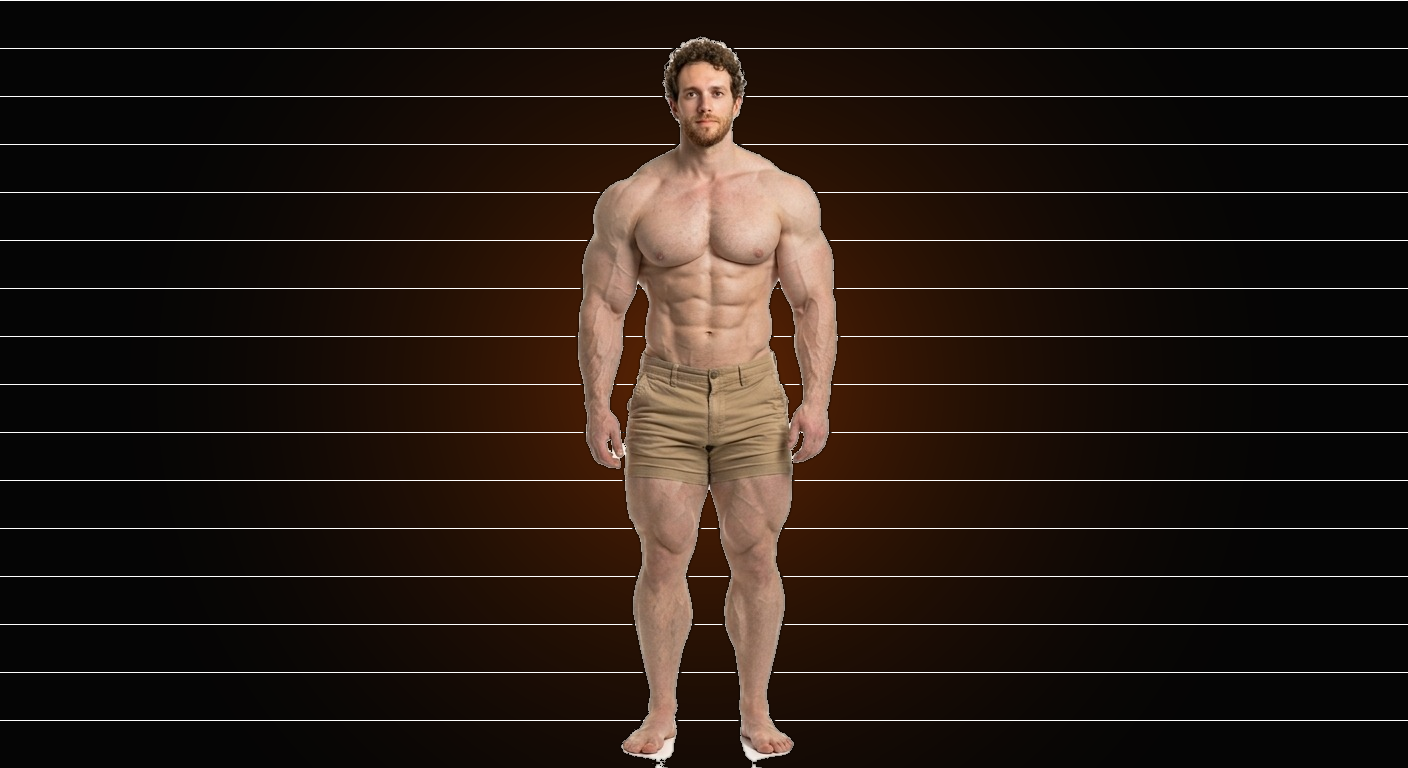
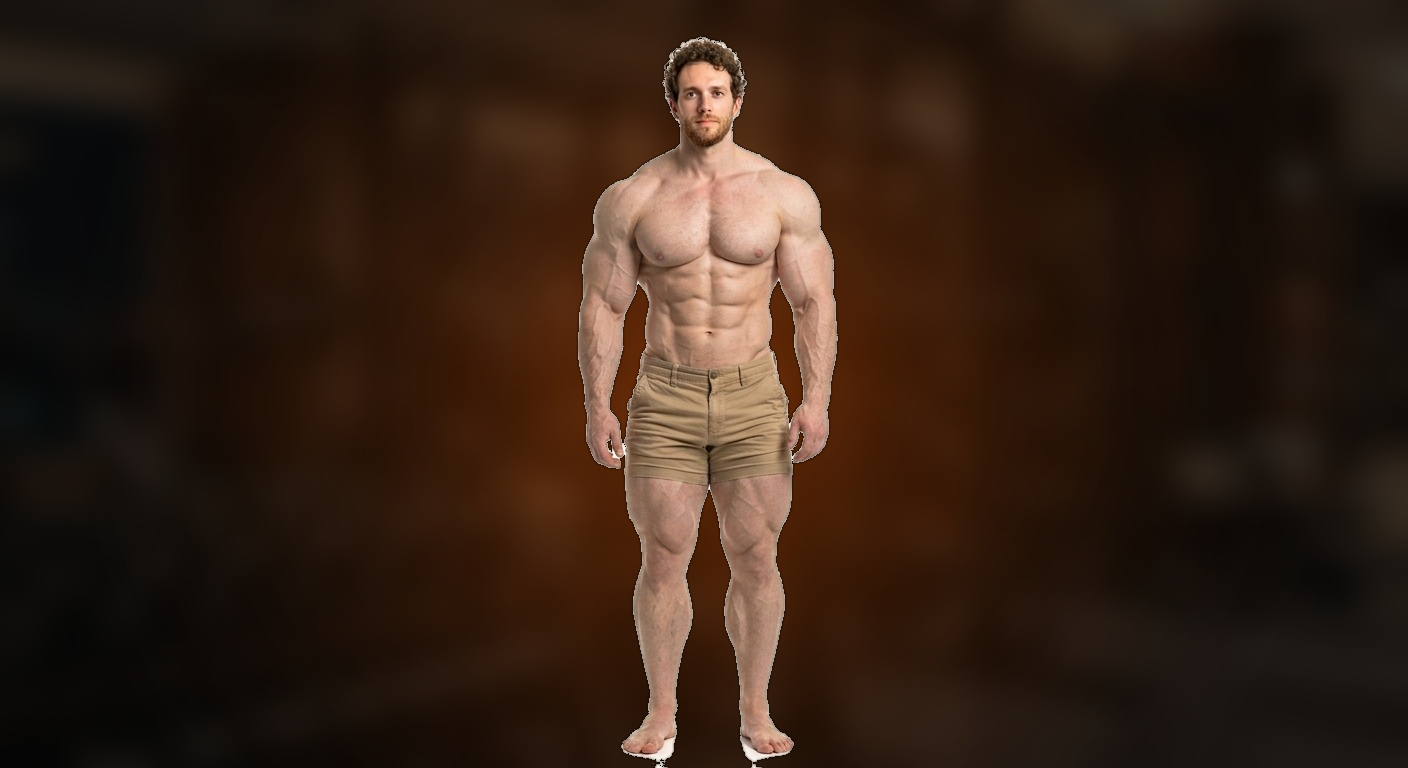
feat: upgrade biometric storyteller with real blurred gym interior and spring-based horizontal slide transitions

diff --git a/src/app/page.tsx b/src/app/page.tsx
@@ -81,6 +81,7 @@ export default function Home() {
   const [currentPhase, setCurrentPhase] = useState(0);
   const [isAutoPlaying, setIsAutoPlaying] = useState(true);
   const [phaseTime, setPhaseTime] = useState(0);
+  const [direction, setDirection] = useState(1); // 1 = forward, -1 = backward
 
   // Auto-play phase changes and continuous timeline progress
   useEffect(() => {
@@ -91,6 +92,7 @@ export default function Home() {
       setPhaseTime((prev) => {
         const nextTime = prev + intervalTime;
         if (nextTime >= 7000) {
+          setDirection(1); // Auto-play always moves forward
           setCurrentPhase((p) => (p + 1) % 3);
           return 0; // Reset timer for next phase
         }
@@ -102,6 +104,7 @@ export default function Home() {
   }, [isAutoPlaying]);
 
   const selectPhase = (idx: number) => {
+    setDirection(idx > currentPhase ? 1 : -1);
     setCurrentPhase(idx);
     setPhaseTime(0);
     setIsAutoPlaying(false); // Stop autoplay once user interacts manually
@@ -125,6 +128,22 @@ export default function Home() {
   };
 
   const timelineProgress = getTimelineProgress();
+
+  // Variants for horizontal sliding panel transitions
+  const slideVariants = {
+    enter: (dir: number) => ({
+      x: dir > 0 ? "5%" : "-5%",
+      opacity: 0
+    }),
+    center: {
+      x: 0,
+      opacity: 1
+    },
+    exit: (dir: number) => ({
+      x: dir > 0 ? "-5%" : "5%",
+      opacity: 0
+    })
+  };
 
   // Generate physics shards on client mount
   useEffect(() => {
@@ -962,17 +981,22 @@ export default function Home() {
             </div>
 
             {/* DECK PANEL CONTAINER */}
-            <div className="w-full min-h-[580px] md:min-h-[420px] flex items-center justify-center relative">
-              <AnimatePresence mode="wait">
+            <div className="w-full min-h-[580px] md:min-h-[420px] flex items-center justify-center relative overflow-hidden">
+              <AnimatePresence initial={false} custom={direction} mode="wait">
                 {evolutionPhases.map((phase, idx) => {
                   if (currentPhase !== idx) return null;
                   return (
                     <motion.div
                       key={idx}
-                      initial={{ opacity: 0, y: 15 }}
-                      animate={{ opacity: 1, y: 0 }}
-                      exit={{ opacity: 0, y: -15 }}
-                      transition={{ duration: 0.5, ease: [0.16, 1, 0.3, 1] }}
+                      custom={direction}
+                      variants={slideVariants}
+                      initial="enter"
+                      animate="center"
+                      exit="exit"
+                      transition={{
+                        x: { type: "spring", stiffness: 160, damping: 22 },
+                        opacity: { duration: 0.2 }
+                      }}
                       className="max-w-6xl w-full grid grid-cols-1 lg:grid-cols-12 gap-12 items-center z-10"
                     >
                       {/* Left Column: Image with Corner Reticles and Laser Sweeper */}